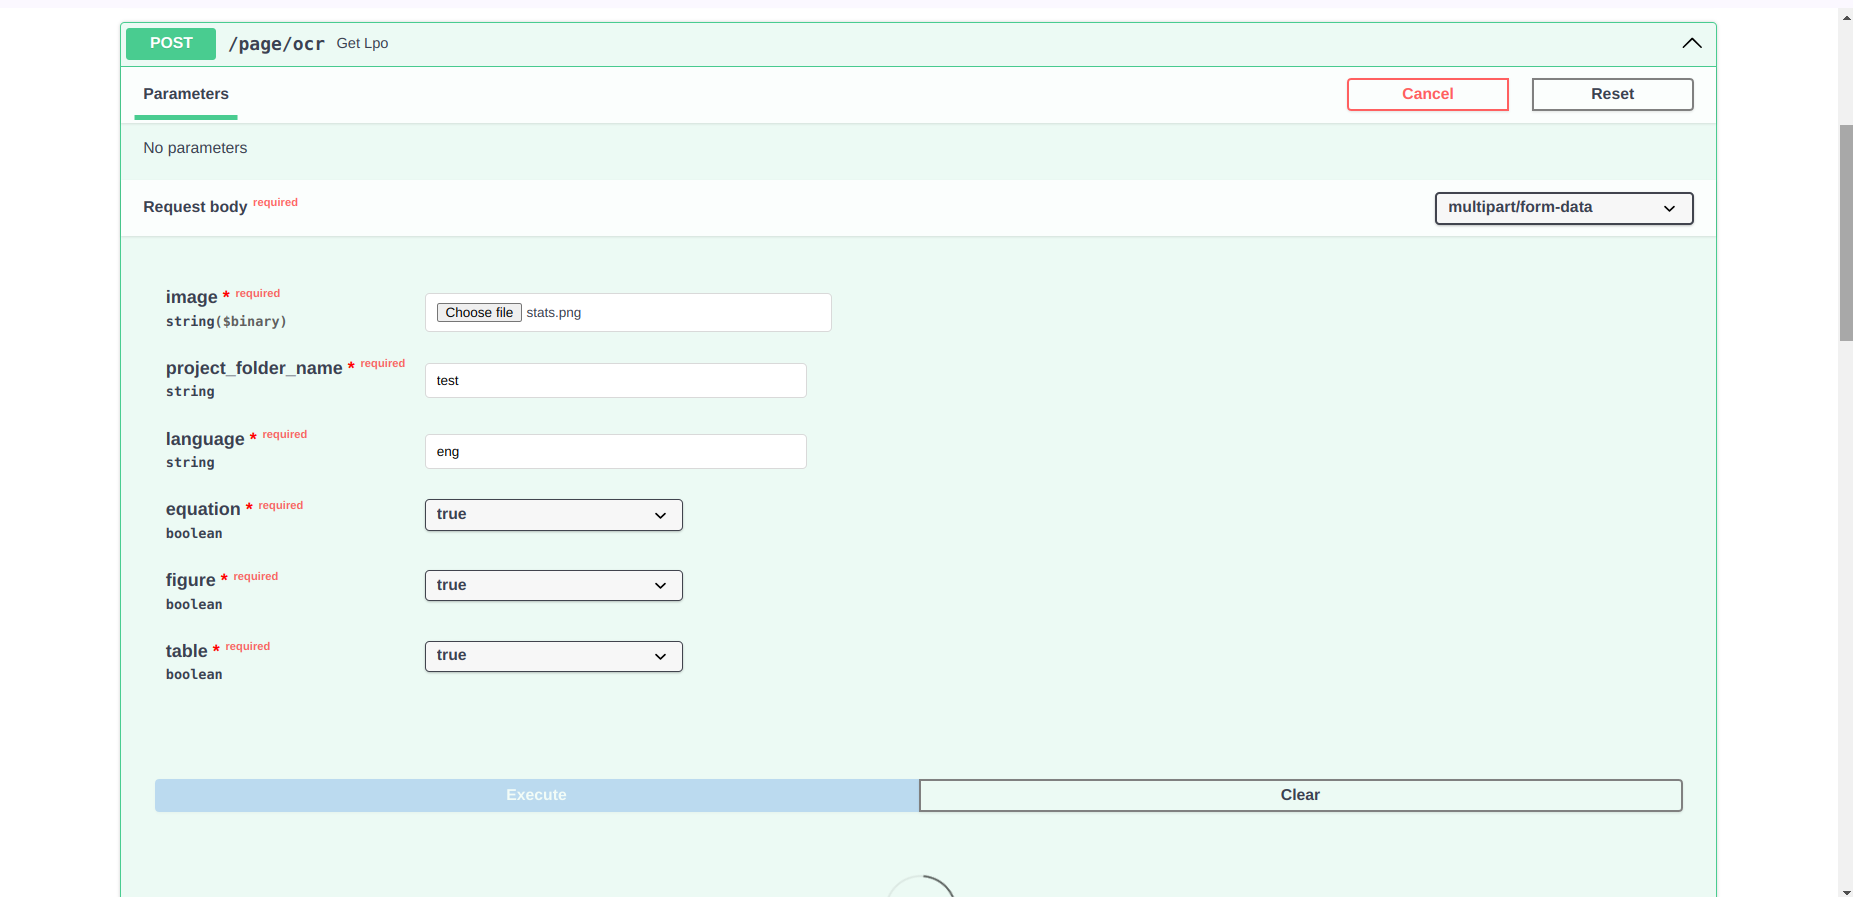
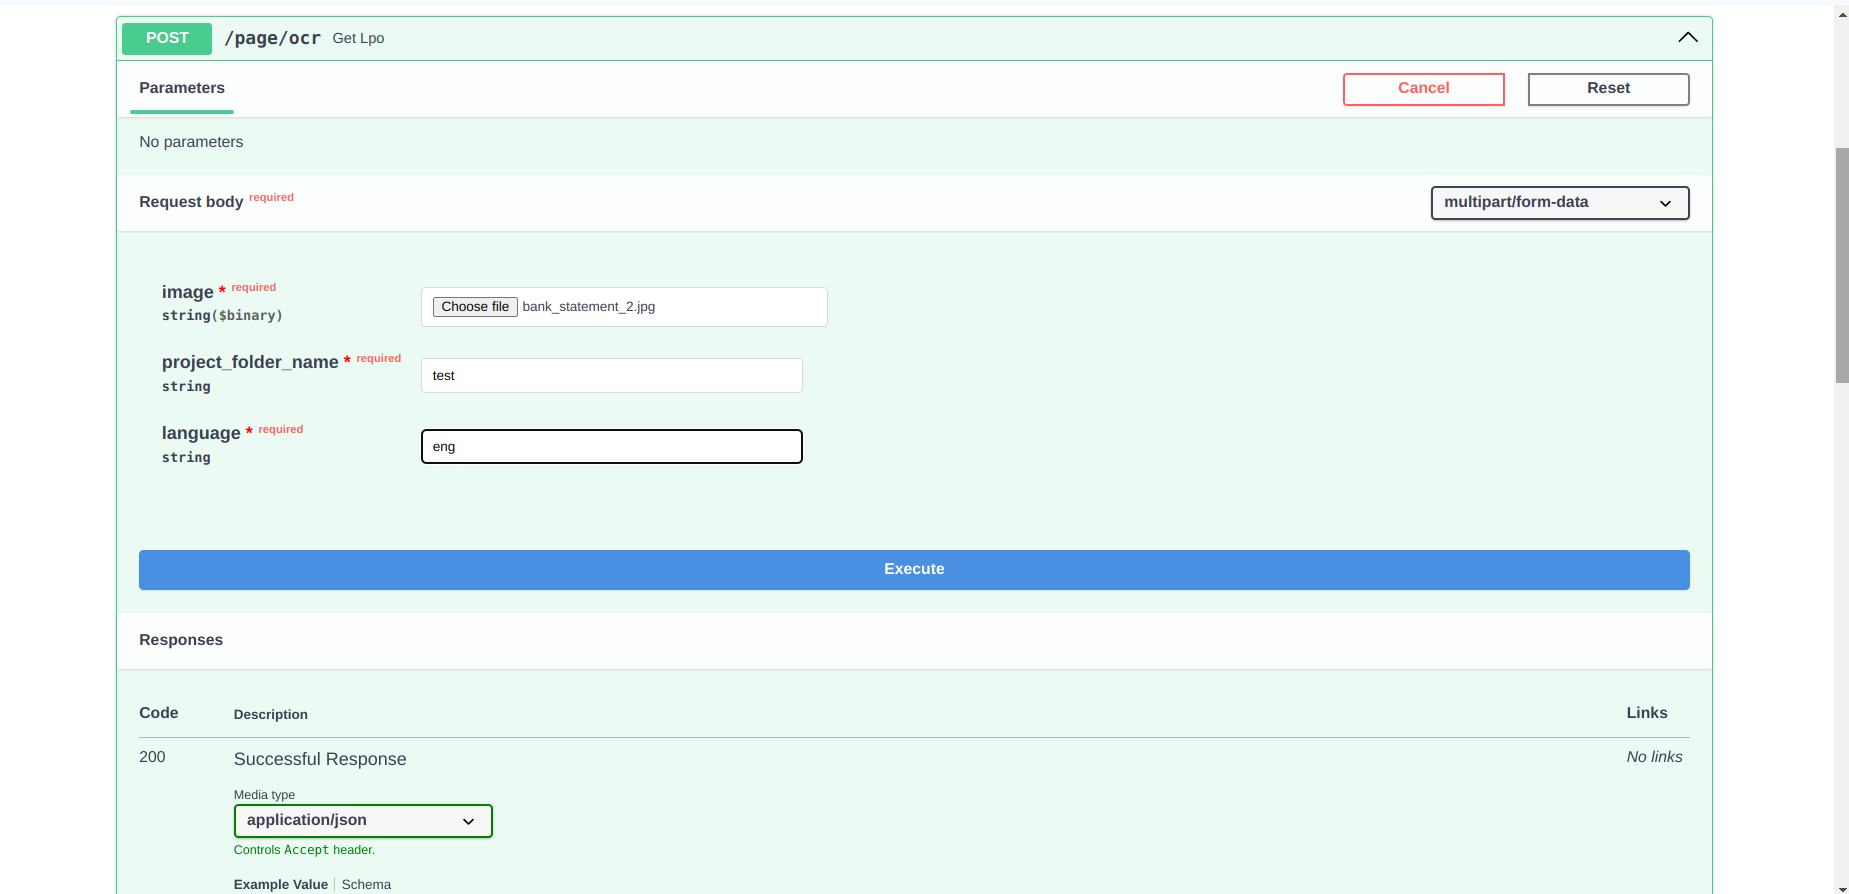
Separation of ocr into apps/iitb_v0_ocr and page/iitb_v0_ocr

diff --git a/server/modules/apps/iitb_v0_ocr/routes.py b/server/modules/apps/iitb_v0_ocr/routes.py
@@ -8,7 +8,7 @@ import pickle
 import json
 
 router = APIRouter(
-	prefix='/ocr'
+	prefix='/page'
 )
 
 @router.post(
@@ -20,9 +20,9 @@ async def get_lpo(
     image: UploadFile = File(...),
     project_folder_name: str = Body(...),
     language: str = Body(...),
-    #equation: bool = Body(...),
-    #figure: bool = Body(...),
-    #table: bool = Body(...)
+    equation: bool = Body(...),
+    figure: bool = Body(...),
+    table: bool = Body(...)
     )-> OCRResponse:
     
     try:
@@ -35,17 +35,28 @@ async def get_lpo(
         
         save_uploaded_images([image],temp.name)
 
+        # Set layout_preservation based on equation, figure, and table
+        layout_preservation = equation or figure or table
+
+        print(f"Equation: {equation}, Figure: {figure}, Table: {table}, Layout Preservation: {layout_preservation}")
+
+        # If all three parameters are False, set them to True
+        if not equation and not figure and not table:
+            equation = figure = table = True
+            layout_preservation = True
+            print(f"Revised values: Equation: {equation}, Figure: {figure}, Table: {table}, Layout Preservation: {layout_preservation}")
+
 
         # Build configuration dictionary
         config = {
             "orig_pdf_path": os.path.join("data", image.filename),
             "project_folder_name": project_folder_name,
             "lang": language,
-            "equation": False,
-            "figure": False,
-            "table": False,
+            "equation": equation,
+            "figure": figure,
+            "table": table,
             "ocr_only": True,
-            "layout_preservation": False,
+            "layout_preservation": layout_preservation,
             "nested_ocr": False
         }
 

diff --git a/server/modules/apps/iitb_v0_ocr/helper.py b/server/modules/apps/iitb_v0_ocr/helper.py
@@ -1,0 +1,27 @@
+import os
+import shutil
+from os.path import join
+from fastapi import UploadFile
+from typing import List
+
+
+def delete_files_in_directory(directory_path):
+    try:
+        files = os.listdir(directory_path)
+        for file in files:
+            file_path = os.path.join(directory_path, file)
+            if os.path.isfile(file_path):
+                os.remove(file_path)
+        print("All files deleted successfully.")
+    except OSError:
+        print("Error occurred while deleting files.")
+
+def save_uploaded_images(images: List[UploadFile],image_dir) -> str:
+	print('removing all the previous uploaded files from the image folder')
+	delete_files_in_directory(image_dir)
+	print(f'Saving {len(images)} to location: {image_dir}')
+	for image in images:
+		location = join(image_dir, f'{image.filename}')
+		with open(location, 'wb') as f:
+			shutil.copyfileobj(image.file, f)
+	return image_dir

diff --git a/server/app.py b/server/app.py
@@ -7,6 +7,7 @@ from fastapi.middleware.cors import CORSMiddleware
 
 from .modules.page import router as page_level_router
 from .modules.word import router as word_level_router
+from .modules.apps import router as apps_level_router
 
 app = FastAPI(
 	title='BHASHINI OCR API',
@@ -24,6 +25,7 @@ app.add_middleware(
 
 app.include_router(page_level_router)
 app.include_router(word_level_router)
+app.include_router(apps_level_router)
 
 
 @app.middleware('http')

diff --git a/server/modules/apps/__init__.py b/server/modules/apps/__init__.py
@@ -1,0 +1,10 @@
+from fastapi import APIRouter
+
+from .iitb_v0_ocr.routes import router as apps_ocr_router
+
+router = APIRouter(
+    prefix="/apps",
+    tags=["Apps level"]
+)
+
+router.include_router(apps_ocr_router)

diff --git a/server/modules/apps/iitb_v0_ocr/models.py b/server/modules/apps/iitb_v0_ocr/models.py
@@ -1,0 +1,5 @@
+from pydantic import BaseModel
+
+class OCRResponse(BaseModel):
+    result_message: str
+    result_html: str

diff --git a/server/modules/apps/iitb_v0_ocr/README.md b/server/modules/apps/iitb_v0_ocr/README.md
@@ -2,22 +2,25 @@
 
 ## Description
 
-An endpoint to return the OCR of an image has been integrated to the code. This integration will perform OCR **without the preservation** of the document's layout during the process. Implemented in docker. Processing code repository [here](https://github.com/iitb-research-code/docker-layout-pres-ocr), use to build docker image.
+An endpoint to return the OCR of an image has been integrated to the code. This integration will encompass different classes such as Tables, Equations, Figures, and Text to **ensure the preservation** of the document's layout during the optical character recognition process. Implemented in docker. Processing code repository [here](https://github.com/iitb-research-code/docker-layout-pres-ocr), use to build docker image.
 
 ## API Endpoint and usage
 
-Created a module server/modules/page/iitb_v0_ocr to have the endpoint for layout preservation.
+Created a module server/modules/apps/iitb_v0_ocr to have the endpoint for layout preservation.
 
-**Layout preservation endpoint - page/ocr**
+**Layout preservation endpoint - apps/ocr**
 
 **Input:**
 - An image file.
 - Output set name or document name to be given to final result folder in output directory.
 - Language to perform OCR.
+- Boolean, True if we want to preserve equation in the HOCRs.
+- Boolean, True if we want to preserve figure in the HOCRs.
+- Boolean, True if we want to preserve table in the HOCRs.
 
 
 ***Note:***
-<br> *Table, equation, figure and layout preservation are **all** set to False*
+<br> *If **all three** parameters for detecting tables, equations, and figures are set to False, they will be changed to True. Additionally, the layout preservation will also be set to True. However, if any one or two of these parameters are set to False, they will remain unchanged, while layout preservation will still be set to True, as at least one of the parameters among equations, tables, or figures is set to True.*
 
 ### Example
 
@@ -25,14 +28,14 @@ Created a module server/modules/page/iitb_v0_ocr to have the endpoint for layout
 ![Request](examples/RequestImage.png)
 
 **Response image**
-![Response](examples/bank_02_ResponseImage.png)
+![Response](examples/IBA_Cir_01_ResponseImage.png)
 
 ## Changes Integrated
 ### iitb_v0_ocr module
-- The layout_preserve module has been introduced to centralize the code responsible for performing OCR without preservation of layout elements such as Tables, Equations, Figures, and Text. 
+- The iitb_v0_ocr module has been introduced to centralize the code responsible for detecting and recognizing layout elements, including Tables, Equations, Figures, and Text. 
 
 ### routes.py
-- The endpoint `page/ocr` has been introduced to facilitate layout preservation across various classes within the API.
+- The endpoint `apps/ocr` has been introduced to facilitate layout preservation across various classes within the API.
 - Users provides the required input, and the API returns a JSON response indicating the success or failure of the OCR process as well as an html result of the processed image .
 
 ### helper.py
@@ -42,9 +45,9 @@ Created a module server/modules/page/iitb_v0_ocr to have the endpoint for layout
 ### models.py
 - The purpose of this code is to define a clear and structured data model `OCRResponse` for representing the output of the OCR operation.
 
-In modules/page/__init__.py line 12 imported router from routes.py of the layout_preserve.
+In modules/apps/__init__.py line 10 imported router from routes.py of the layout_preserve.
 
-In app.py line 26 imported router of page.
+In app.py line 28 imported router of apps.
 
 ### Requirements
 
